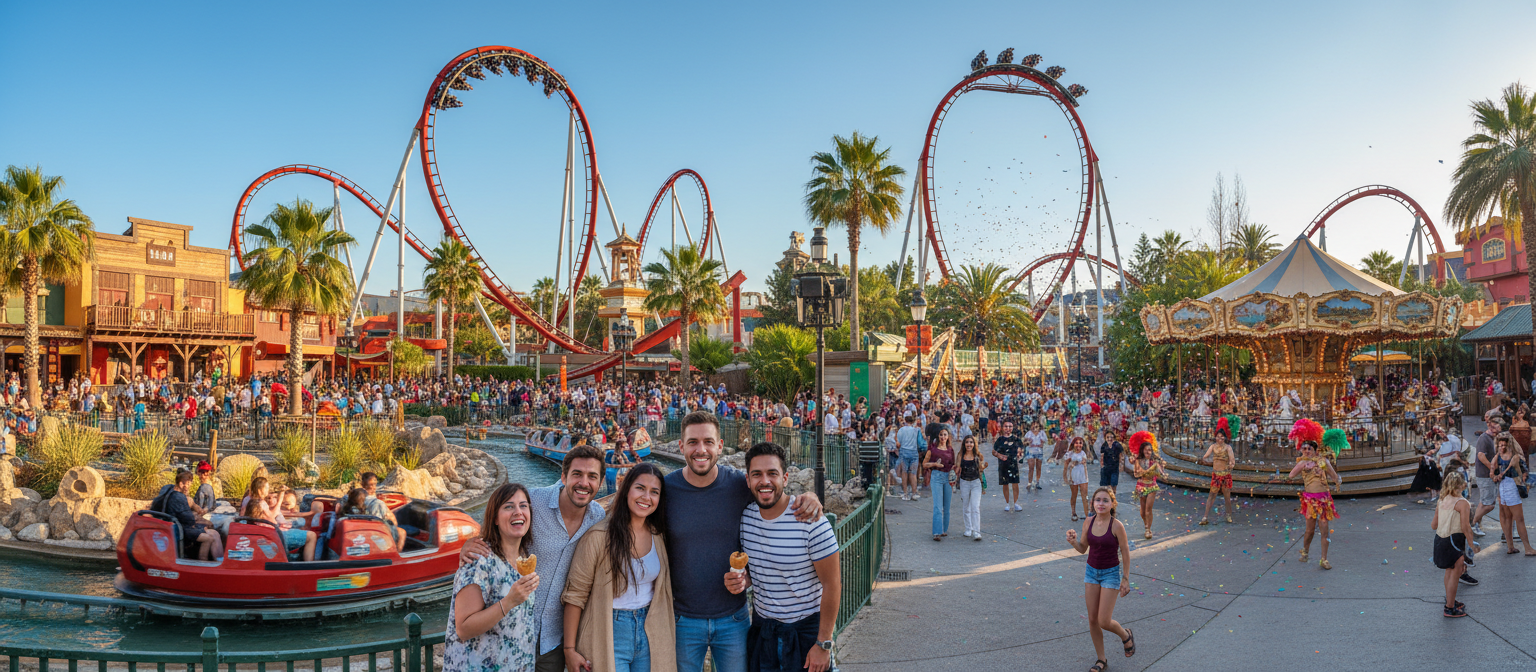
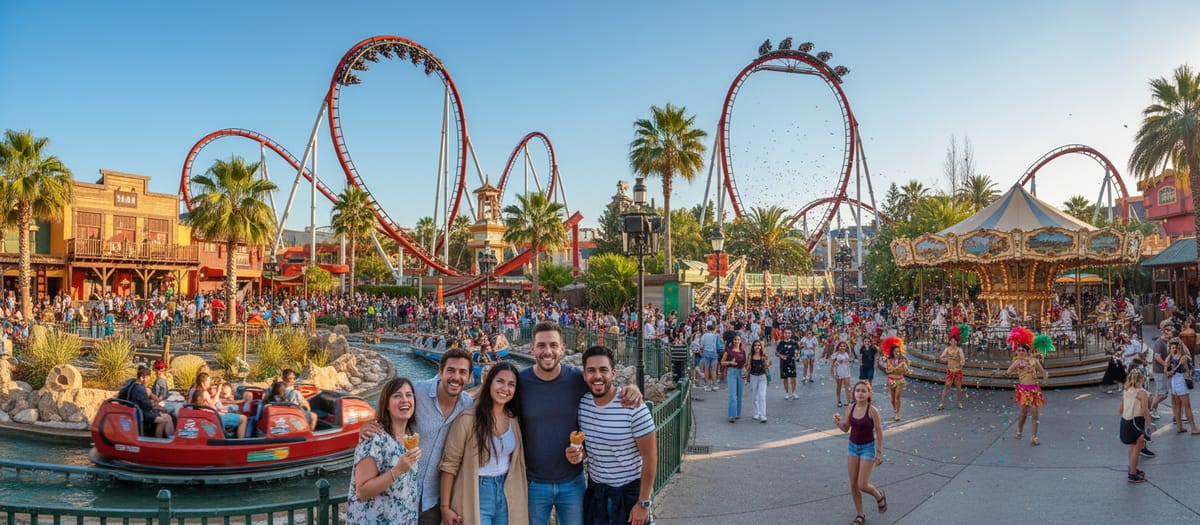
Image Optimization

diff --git a/stwmovers-frontend/data/homeContent.ts b/stwmovers-frontend/data/homeContent.ts
@@ -153,13 +153,13 @@ export type HomeFleetVehicle = {
   categories: HomeFleetCategory[]
 }
 
-/** Homepage fleet cards — SVG assets from homepage-fleet-section */
+/** Homepage fleet cards — optimized PNGs rasterized from homepage-fleet-section */
 export const homeFleetVehicles: HomeFleetVehicle[] = [
   {
     id: 'mercedes-e-class',
     backendId: 'c0000001-0000-0000-0000-000000000004',
     name: 'Mercedes E Class',
-    image: '/img/home/fleet-section/Mercedes E Class 2.svg',
+    image: '/img/home/fleet-section/Mercedes E Class 2.png',
     seats: 4,
     bags: 3,
     categories: ['business-class', 'first-class'],
@@ -168,7 +168,7 @@ export const homeFleetVehicles: HomeFleetVehicle[] = [
     id: 'mercedes-s-class',
     backendId: 'c0000001-0000-0000-0000-000000000005',
     name: 'Mercedes S Class',
-    image: '/img/home/fleet-section/Mercedes S Class 2.svg',
+    image: '/img/home/fleet-section/Mercedes S Class 2.png',
     seats: 4,
     bags: 3,
     categories: ['first-class', 'aviation'],
@@ -177,7 +177,7 @@ export const homeFleetVehicles: HomeFleetVehicle[] = [
     id: 'mercedes-v-class',
     backendId: 'c0000001-0000-0000-0000-000000000002',
     name: 'Mercedes V Class',
-    image: '/img/home/fleet-section/Mercedes V Class 2.svg',
+    image: '/img/home/fleet-section/Mercedes V Class 2.png',
     seats: 7,
     bags: 6,
     categories: ['business-van', 'first-class'],
@@ -186,7 +186,7 @@ export const homeFleetVehicles: HomeFleetVehicle[] = [
     id: 'mercedes-vito-van',
     backendId: 'c0000001-0000-0000-0000-000000000001',
     name: 'Mercedes Vito Van',
-    image: '/img/home/fleet-section/Mercedes Vito Van 2.svg',
+    image: '/img/home/fleet-section/Mercedes Vito Van 2.png',
     seats: 7,
     bags: 6,
     categories: ['business-van'],
@@ -195,7 +195,7 @@ export const homeFleetVehicles: HomeFleetVehicle[] = [
     id: 'mercedes-van',
     backendId: 'c0000001-0000-0000-0000-000000000003',
     name: 'Mercedes Van',
-    image: '/img/home/fleet-section/Mercedes Van 2.svg',
+    image: '/img/home/fleet-section/Mercedes Van 2.png',
     seats: 8,
     bags: 7,
     categories: ['mini-bus', 'bus'],
@@ -204,7 +204,7 @@ export const homeFleetVehicles: HomeFleetVehicle[] = [
     id: 'tesla-model-s',
     backendId: 'c0000001-0000-0000-0000-000000000006',
     name: 'Tesla Model S',
-    image: '/img/home/fleet-section/Tesla Model S 2.svg',
+    image: '/img/home/fleet-section/Tesla Model S 2.png',
     seats: 4,
     bags: 3,
     categories: ['business-class'],
@@ -213,7 +213,7 @@ export const homeFleetVehicles: HomeFleetVehicle[] = [
     id: 'hyundai-ioniq',
     backendId: 'c0000001-0000-0000-0000-000000000007',
     name: 'Hyundai Ioniq',
-    image: '/img/home/fleet-section/Hyundai Ioniq 2.svg',
+    image: '/img/home/fleet-section/Hyundai Ioniq 2.png',
     seats: 4,
     bags: 3,
     categories: ['business-class'],
@@ -222,7 +222,7 @@ export const homeFleetVehicles: HomeFleetVehicle[] = [
     id: 'toyota-corolla',
     backendId: 'c0000001-0000-0000-0000-000000000008',
     name: 'Toyota Corolla Familiar',
-    image: '/img/home/fleet-section/Toyota Corolla Familiar 2.svg',
+    image: '/img/home/fleet-section/Toyota Corolla Familiar 2.png',
     seats: 4,
     bags: 3,
     categories: ['business-class'],
@@ -230,7 +230,7 @@ export const homeFleetVehicles: HomeFleetVehicle[] = [
   {
     id: 'byd-seal',
     name: 'BYD Seal',
-    image: '/img/home/fleet-section/BYD SEAL 2.svg',
+    image: '/img/home/fleet-section/BYD SEAL 2.png',
     seats: 4,
     bags: 3,
     categories: ['business-class'],

diff --git a/stwmovers-frontend/components/home/HomeJourneys.vue b/stwmovers-frontend/components/home/HomeJourneys.vue
@@ -49,9 +49,10 @@ function cardStyle(card: HomeJourneyCard, group: { width: number; height: number
               :alt="`${card.title} — Barcelona destination`"
               loading="lazy"
               decoding="async"
+              placeholder
               width="209"
               height="300"
-              sizes="209px"
+              sizes="xs:45vw sm:220px md:220px lg:220px xl:220px xxl:220px"
             />
             <div class="home-journey-card__overlay">
               <span class="home-journey-card__btn">
@@ -81,9 +82,10 @@ function cardStyle(card: HomeJourneyCard, group: { width: number; height: number
               :alt="`${card.title} — Barcelona destination`"
               loading="lazy"
               decoding="async"
+              placeholder
               width="209"
               height="300"
-              sizes="209px"
+              sizes="xs:45vw sm:220px md:220px lg:220px xl:220px xxl:220px"
             />
             <div class="home-journey-card__overlay">
               <span class="home-journey-card__btn">

diff --git a/stwmovers-frontend/nuxt.config.ts b/stwmovers-frontend/nuxt.config.ts
@@ -6,6 +6,23 @@ export default defineNuxtConfig({
   modules: ['@pinia/nuxt', '@nuxt/image'],
   css: ['~/assets/styles/css/main.css', '~/assets/styles/css/home.css'],
 
+  image: {
+    // Serve modern formats when the browser supports them, fall back gracefully.
+    format: ['webp', 'jpg'],
+    quality: 78,
+    // Breakpoints used to generate srcset. Must be screen-prefixed in `sizes`.
+    screens: {
+      xs: 320,
+      sm: 640,
+      md: 768,
+      lg: 1024,
+      xl: 1280,
+      xxl: 1536,
+    },
+    // Reasonable presets for repeated card imagery.
+    densities: [1, 2],
+  },
+
   // Avoid dev.json / #app-manifest errors after `nuxt generate` or stale Vite cache.
   experimental: {
     appManifest: false,

diff --git a/stwmovers-frontend/assets/styles/css/home.css b/stwmovers-frontend/assets/styles/css/home.css
@@ -823,6 +823,8 @@
   aspect-ratio: 208.5 / 300;
   border-radius: 10px;
   overflow: hidden;
+  /* Neutral tone shown until the blurred placeholder / full image paints. */
+  background: #e9e9ec;
 }
 
 .home-journey-card__photo {
@@ -1616,6 +1618,8 @@
 .home-corporate__media {
   position: absolute;
   inset: 0;
+  /* Dark base to match the overlay while the banner loads. */
+  background: #14140f;
 }
 
 .home-corporate__media img {
@@ -1815,6 +1819,8 @@
   inset: 0;
   border-radius: 20px;
   overflow: hidden;
+  /* Dark base to match the overlay while the banner loads. */
+  background: #14140f;
 }
 
 .home-cta__media img {

diff --git a/stwmovers-frontend/components/home/HomeTestimonials.vue b/stwmovers-frontend/components/home/HomeTestimonials.vue
@@ -17,9 +17,10 @@
             alt="STW Movers guest portrait"
             loading="lazy"
             decoding="async"
+            placeholder
             width="187"
             height="162"
-            sizes="187px"
+            sizes="xs:187px sm:187px md:187px lg:187px xl:187px xxl:187px"
           />
         </div>
         <div class="home-testimonials__author-meta">

diff --git a/stwmovers-frontend/components/home/HomeFleet.vue b/stwmovers-frontend/components/home/HomeFleet.vue
@@ -221,6 +221,10 @@ onBeforeUnmount(() => {
               :alt="`${vehicle.name} — executive chauffeur vehicle Barcelona`"
               loading="lazy"
               decoding="async"
+              placeholder
+              width="900"
+              height="600"
+              sizes="xs:90vw sm:90vw md:45vw lg:45vw xl:600px xxl:600px"
             />
           </div>
 

diff --git a/stwmovers-frontend/components/home/HomeLocations.vue b/stwmovers-frontend/components/home/HomeLocations.vue
@@ -55,6 +55,7 @@ function cardSizes(columnSpan: number): string {
           :alt="`${card.title} private transfer`"
           loading="lazy"
           decoding="async"
+          placeholder
           width="302"
           height="220"
           :sizes="cardSizes(card.columnSpan)"

diff --git a/stwmovers-frontend/components/home/HomeCtaBanner.vue b/stwmovers-frontend/components/home/HomeCtaBanner.vue
@@ -12,6 +12,7 @@ import { homeAnchors } from '~/constants/routes'
           alt=""
           loading="lazy"
           decoding="async"
+          placeholder
           width="1440"
           height="854"
           sizes="xs:100vw sm:100vw md:100vw lg:100vw xl:100vw xxl:100vw"

diff --git a/stwmovers-frontend/components/home/HomeCorporateBanner.vue b/stwmovers-frontend/components/home/HomeCorporateBanner.vue
@@ -6,6 +6,7 @@
         alt=""
         loading="lazy"
         decoding="async"
+        placeholder
         width="1440"
         height="612"
         sizes="xs:100vw sm:100vw md:100vw lg:100vw xl:100vw xxl:100vw"
